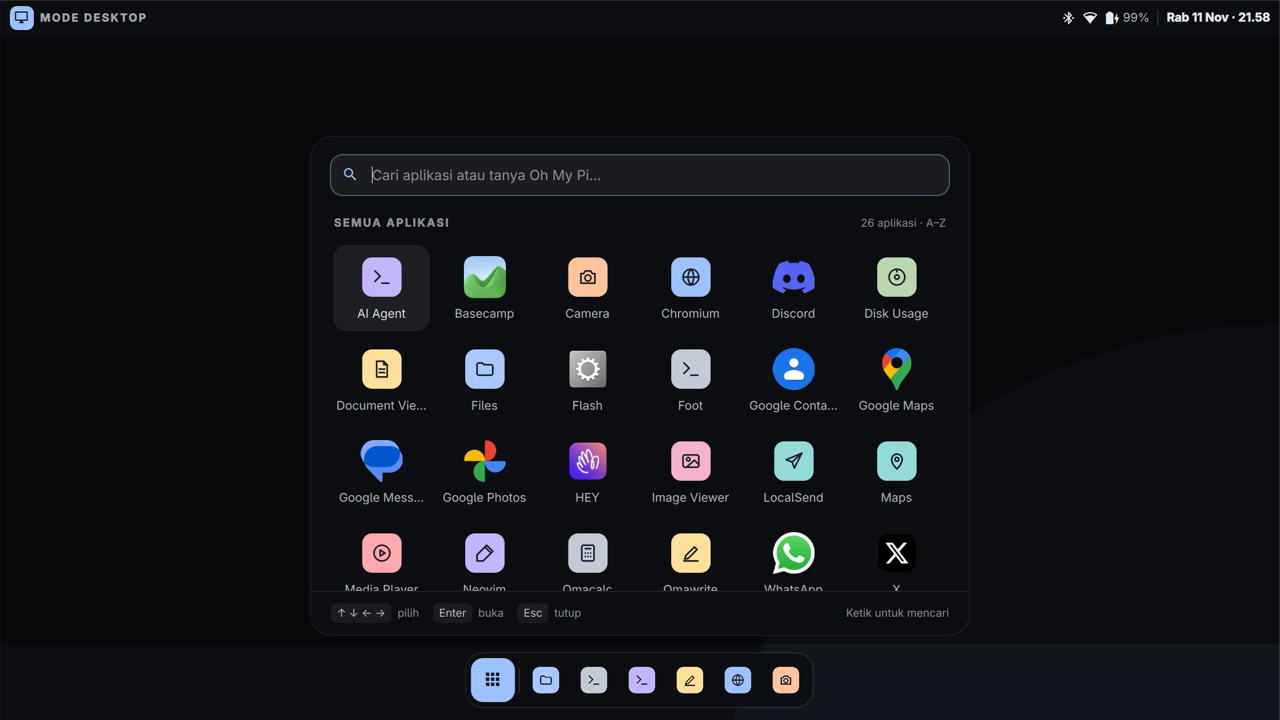
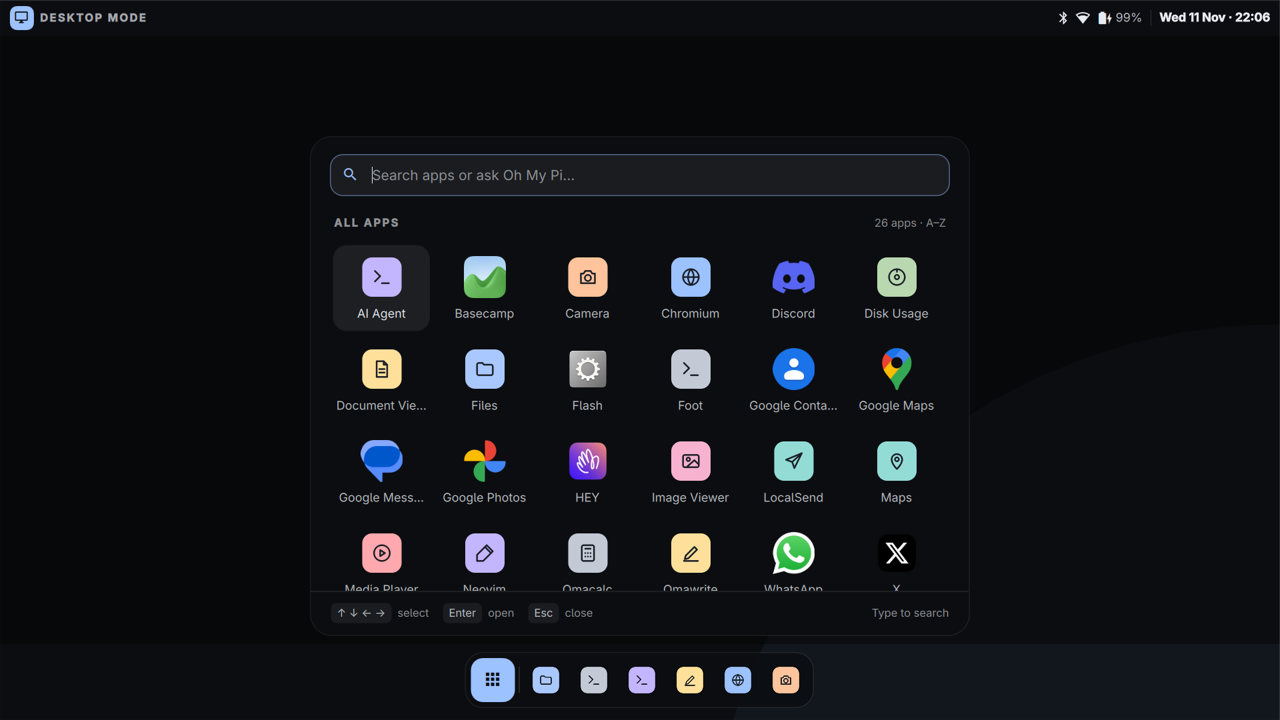
feat(omamobile-shell): desktop mode speaks English (0.2.36)
The shell is English everywhere else, so desktop mode's own words are
too: the bar ("DESKTOP MODE", the date in en_US with HH:mm), the status
card (Phone screen, Bluetooth, Wi-Fi, Battery, Settings, Phone mode),
the app menu (search, ALL APPS, the key hints), the switch cover
("Desktop mode" / "Phone mode") and the notification when it turns on.

The screenshots in docs/design/desktop-mode/ are retaken on the phone.

diff --git a/packages/omamobile-shell/plugins/omamobile.launcher/Launcher.qml b/packages/omamobile-shell/plugins/omamobile.launcher/Launcher.qml
@@ -730,7 +730,7 @@ Item {
           border.color: desktopInput.activeFocus ? Util.alpha(Commons.Color.accent, 0.5) : "transparent"
         }
         leftPadding: 42
-        placeholderText: root.hasAgent ? "Cari aplikasi atau tanya " + root.agentName + "…" : "Cari aplikasi…"
+        placeholderText: root.hasAgent ? "Search apps or ask " + root.agentName + "…" : "Search apps…"
         foreground: root.foreground
         text: root.query
         onTextEdited: root.query = text
@@ -779,7 +779,7 @@ Item {
           anchors.rightMargin: 14
           anchors.verticalCenter: parent.verticalCenter
           textFormat: Text.PlainText
-          text: (root.hasAgent ? "Tanya " + root.agentName : "Pilih agent") + "  ·  " + root.query.trim()
+          text: (root.hasAgent ? "Ask " + root.agentName : "Choose your agent") + "  ·  " + root.query.trim()
           color: root.promptMode ? Commons.Color.menu.selectedText : root.foreground
           font.family: root.textFont
           font.pixelSize: 13
@@ -807,7 +807,7 @@ Item {
           anchors.left: parent.left
           anchors.verticalCenter: parent.verticalCenter
           textFormat: Text.PlainText
-          text: root.hasQuery ? "HASIL" : "SEMUA APLIKASI"
+          text: root.hasQuery ? "RESULTS" : "ALL APPS"
           color: Qt.darker(root.foreground, 1.6)
           font.family: root.textFont
           font.pixelSize: 11
@@ -819,7 +819,7 @@ Item {
           anchors.right: parent.right
           anchors.verticalCenter: parent.verticalCenter
           textFormat: Text.PlainText
-          text: root.desktopApps.length + " aplikasi" + (root.hasQuery ? "" : " · A–Z")
+          text: root.desktopApps.length + (root.desktopApps.length === 1 ? " app" : " apps") + (root.hasQuery ? "" : " · A–Z")
           color: Qt.darker(root.foreground, 1.6)
           font.family: root.textFont
           font.pixelSize: 11
@@ -859,7 +859,7 @@ Item {
           anchors.centerIn: parent
           visible: root.hasQuery && root.desktopApps.length === 0 && !desktopAsk.visible
           textFormat: Text.PlainText
-          text: "Tidak ada aplikasi yang cocok"
+          text: "No apps match"
           color: Qt.darker(root.foreground, 1.6)
           font.family: root.textFont
           font.pixelSize: 13
@@ -888,7 +888,7 @@ Item {
           anchors.verticalCenter: parent.verticalCenter
           spacing: 14
           Repeater {
-            model: [["↑ ↓ ← →", "pilih"], ["Enter", root.promptMode ? "tanya" : "buka"], ["Esc", "tutup"]]
+            model: [["↑ ↓ ← →", "select"], ["Enter", root.promptMode ? "ask" : "open"], ["Esc", "close"]]
             delegate: Row {
               required property var modelData
               spacing: 6
@@ -925,7 +925,7 @@ Item {
           anchors.rightMargin: 20
           anchors.verticalCenter: parent.verticalCenter
           textFormat: Text.PlainText
-          text: "Ketik untuk mencari"
+          text: "Type to search"
           color: Qt.darker(root.foreground, 1.6)
           font.family: root.textFont
           font.pixelSize: 11

diff --git a/packages/omamobile-shell/plugins/omamobile.desktop/Desktop.qml b/packages/omamobile-shell/plugins/omamobile.desktop/Desktop.qml
@@ -173,11 +173,11 @@ Item {
 
   readonly property bool bluetoothOn: !!Bluetooth.defaultAdapter && Bluetooth.defaultAdapter.enabled
   readonly property string bluetoothText: {
-    if (!bluetoothOn) return "Mati"
-    if (connectedDevices.length === 0) return "Tidak ada yang tersambung"
+    if (!bluetoothOn) return "Off"
+    if (connectedDevices.length === 0) return "Nothing connected"
     var names = []
     for (var i = 0; i < connectedDevices.length; i++)
-      names.push(connectedDevices[i].name || connectedDevices[i].deviceName || "Perangkat")
+      names.push(connectedDevices[i].name || connectedDevices[i].deviceName || "Device")
     return names.join(", ")
   }
 
@@ -193,8 +193,8 @@ Item {
     }
     return null
   }
-  readonly property string wifiText: wifiNetwork ? (wifiNetwork.name || "Tersambung")
-    : Networking.wifiEnabled ? "Tidak tersambung" : "Mati"
+  readonly property string wifiText: wifiNetwork ? (wifiNetwork.name || "Connected")
+    : Networking.wifiEnabled ? "Not connected" : "Off"
 
   readonly property var battery: UPower.displayDevice
   readonly property bool hasBattery: !!battery && battery.isPresent === true
@@ -490,7 +490,7 @@ Item {
           Column {
             anchors.verticalCenter: parent.verticalCenter
             spacing: 1
-            CardText { text: "Layar HP"; font.bold: true; font.pixelSize: 14 }
+            CardText { text: "Phone screen"; font.bold: true; font.pixelSize: 14 }
             CardText {
               text: root.panel ? "Landscape · " + root.panel.width + " × " + root.panel.height : "Landscape"
               muted: true
@@ -520,8 +520,8 @@ Item {
         StatusRow {
           visible: root.hasBattery
           glyph: root.charging ? "" : ""
-          label: "Baterai"
-          value: root.batteryPercent + "%" + (root.charging ? " · mengisi" : " · tidak mengisi")
+          label: "Battery"
+          value: root.batteryPercent + "%" + (root.charging ? " · charging" : " · not charging")
           good: root.charging
         }
 
@@ -534,13 +534,13 @@ Item {
           CardButton {
             width: (parent.width - parent.spacing) / 2
             glyph: ""
-            label: "Pengaturan"
+            label: "Settings"
             onActivated: root.openQuickSettings()
           }
           CardButton {
             width: (parent.width - parent.spacing) / 2
             glyph: ""
-            label: "Mode ponsel"
+            label: "Phone mode"
             onActivated: root.phoneMode()
           }
         }

diff --git a/packages/omamobile-shell/plugins/omamobile.bar/Bar.qml b/packages/omamobile-shell/plugins/omamobile.bar/Bar.qml
@@ -363,7 +363,7 @@ Item {
           Text {
             anchors.verticalCenter: parent.verticalCenter
             textFormat: Text.PlainText
-            text: "MODE DESKTOP"
+            text: "DESKTOP MODE"
             color: Commons.Color.bar.text
             opacity: 0.7
             font.family: "Adwaita Sans"
@@ -478,7 +478,7 @@ Item {
             Text {
               anchors.verticalCenter: parent.verticalCenter
               textFormat: Text.PlainText
-              text: clock.date.toLocaleString(Qt.locale("id_ID"), "ddd d MMM · HH.mm")
+              text: clock.date.toLocaleString(Qt.locale("en_US"), "ddd d MMM · HH:mm")
               color: root.foreground
               font.family: "Adwaita Sans"
               font.pixelSize: 12

diff --git a/packages/omamobile-shell/plugins/omamobile.quicksettings/QuickSettings.qml b/packages/omamobile-shell/plugins/omamobile.quicksettings/QuickSettings.qml
@@ -528,7 +528,7 @@ Item {
 
         Text {
           anchors.horizontalCenter: parent.horizontalCenter
-          text: modeSwitch.toDesktop ? "Mode desktop" : "Mode ponsel"
+          text: modeSwitch.toDesktop ? "Desktop mode" : "Phone mode"
           color: Commons.Color.popups.text
           font.family: Style.font.family
           font.pixelSize: Style.font.title

diff --git a/packages/omamobile-shell/plugins/README.md b/packages/omamobile-shell/plugins/README.md
@@ -72,7 +72,7 @@ While it is on:
 - a status card, opened by a tap on the bar's status icons and date (only
   there: a maximized window's top edge sits under the bar): the screen, the
   connected Bluetooth devices by name, the Wi-Fi network, the battery and
-  whether it charges, Settings (quick settings) and Mode ponsel,
+  whether it charges, Settings (quick settings) and Phone mode,
   which switches back through the Desktop tile and its cover.
 
 `omamobile-desktop-mode` tells `omamobile.bar`, `omamobile.desktop`,

diff --git a/docs/design/desktop-mode/README.md b/docs/design/desktop-mode/README.md
@@ -50,7 +50,7 @@ laci di ponsel. Daftarnya jadi menu mengambang di atas dock, sekitar 660 × 500:
 Tidak ada baris "Terakhir dibuka": dock sudah berisi aplikasi yang terakhir
 dibuka.
 
-## Screenshot asli (markw, 2026-11-11, omamobile-shell 0.2.35)
+## Screenshot asli (markw, 2026-11-11, omamobile-shell 0.2.36, English)
 
 Diambil dengan `grim` di HP, pada skala 1,5 (1280 × 720):
 
